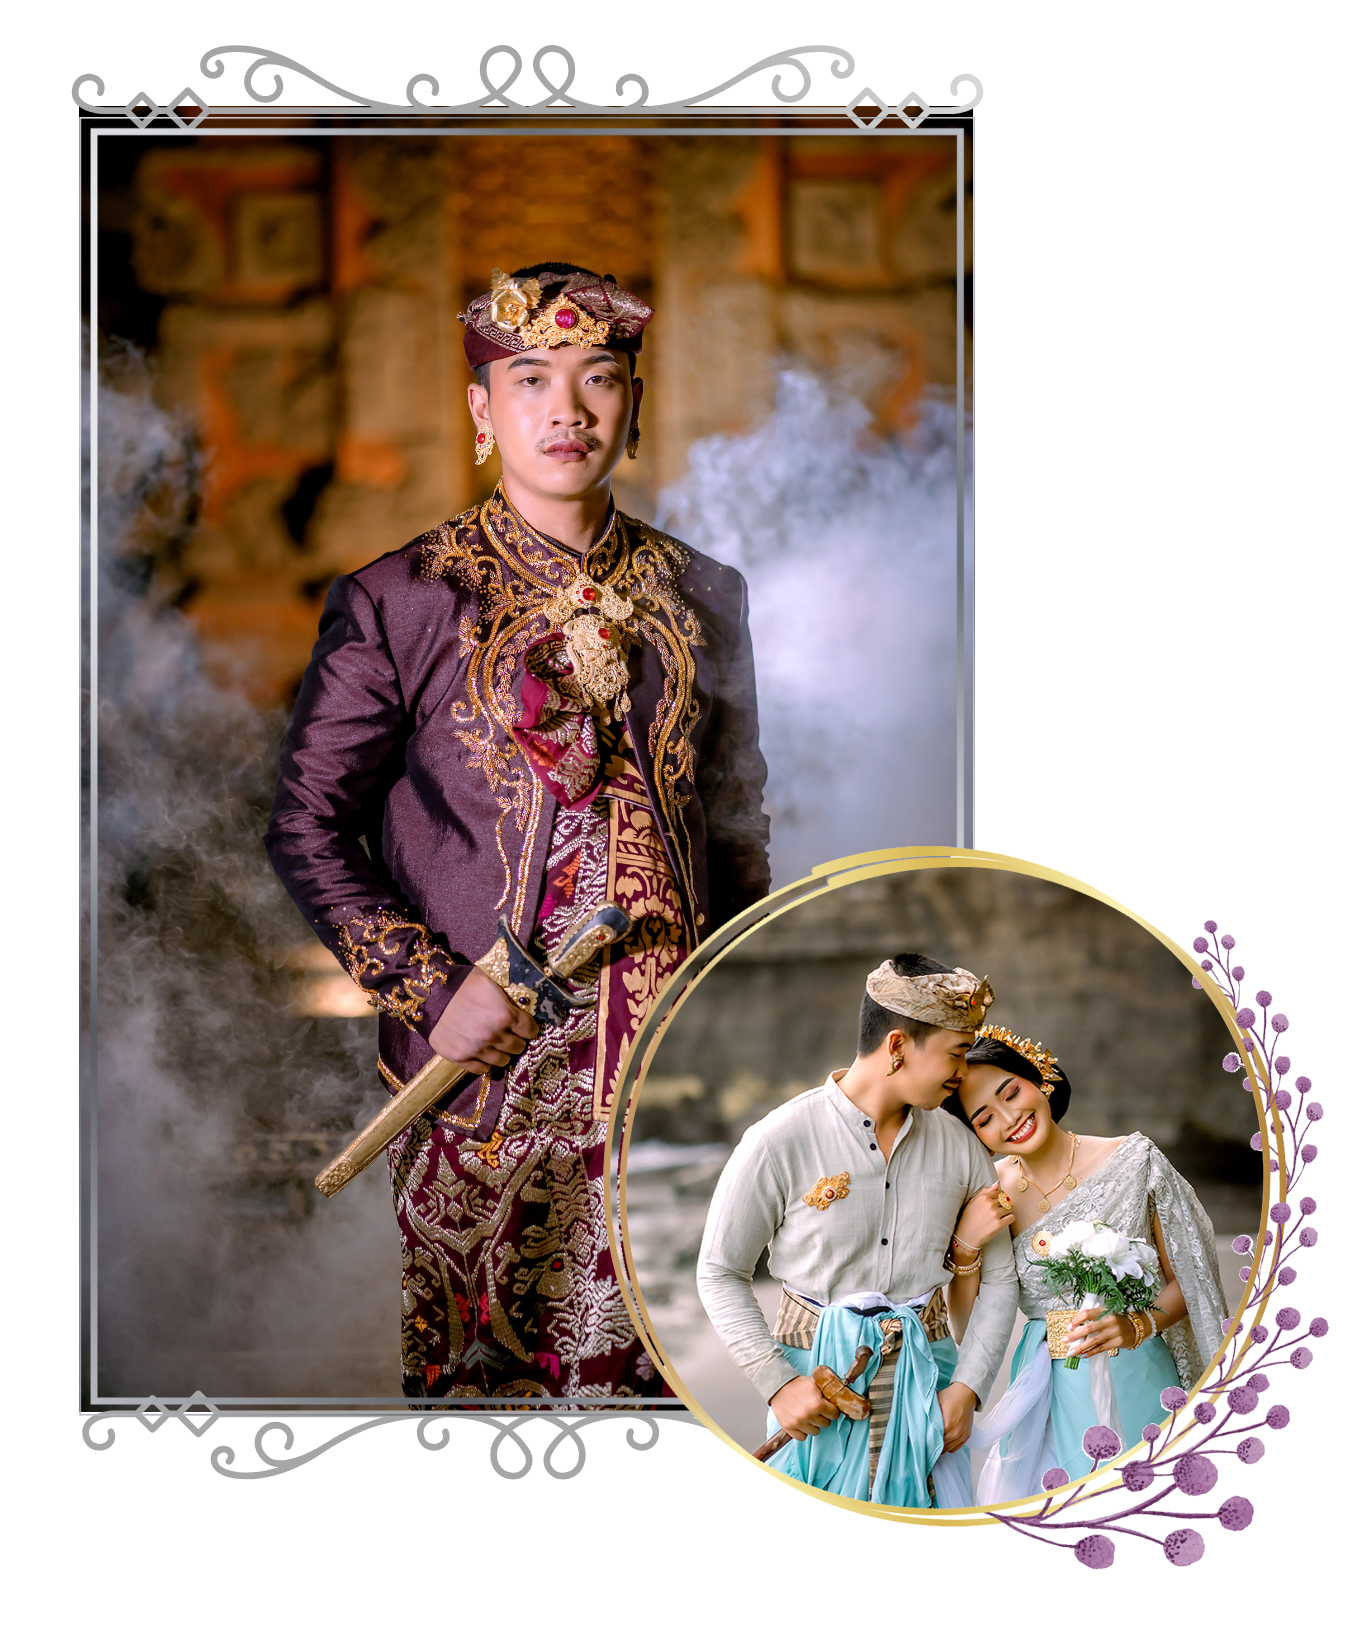
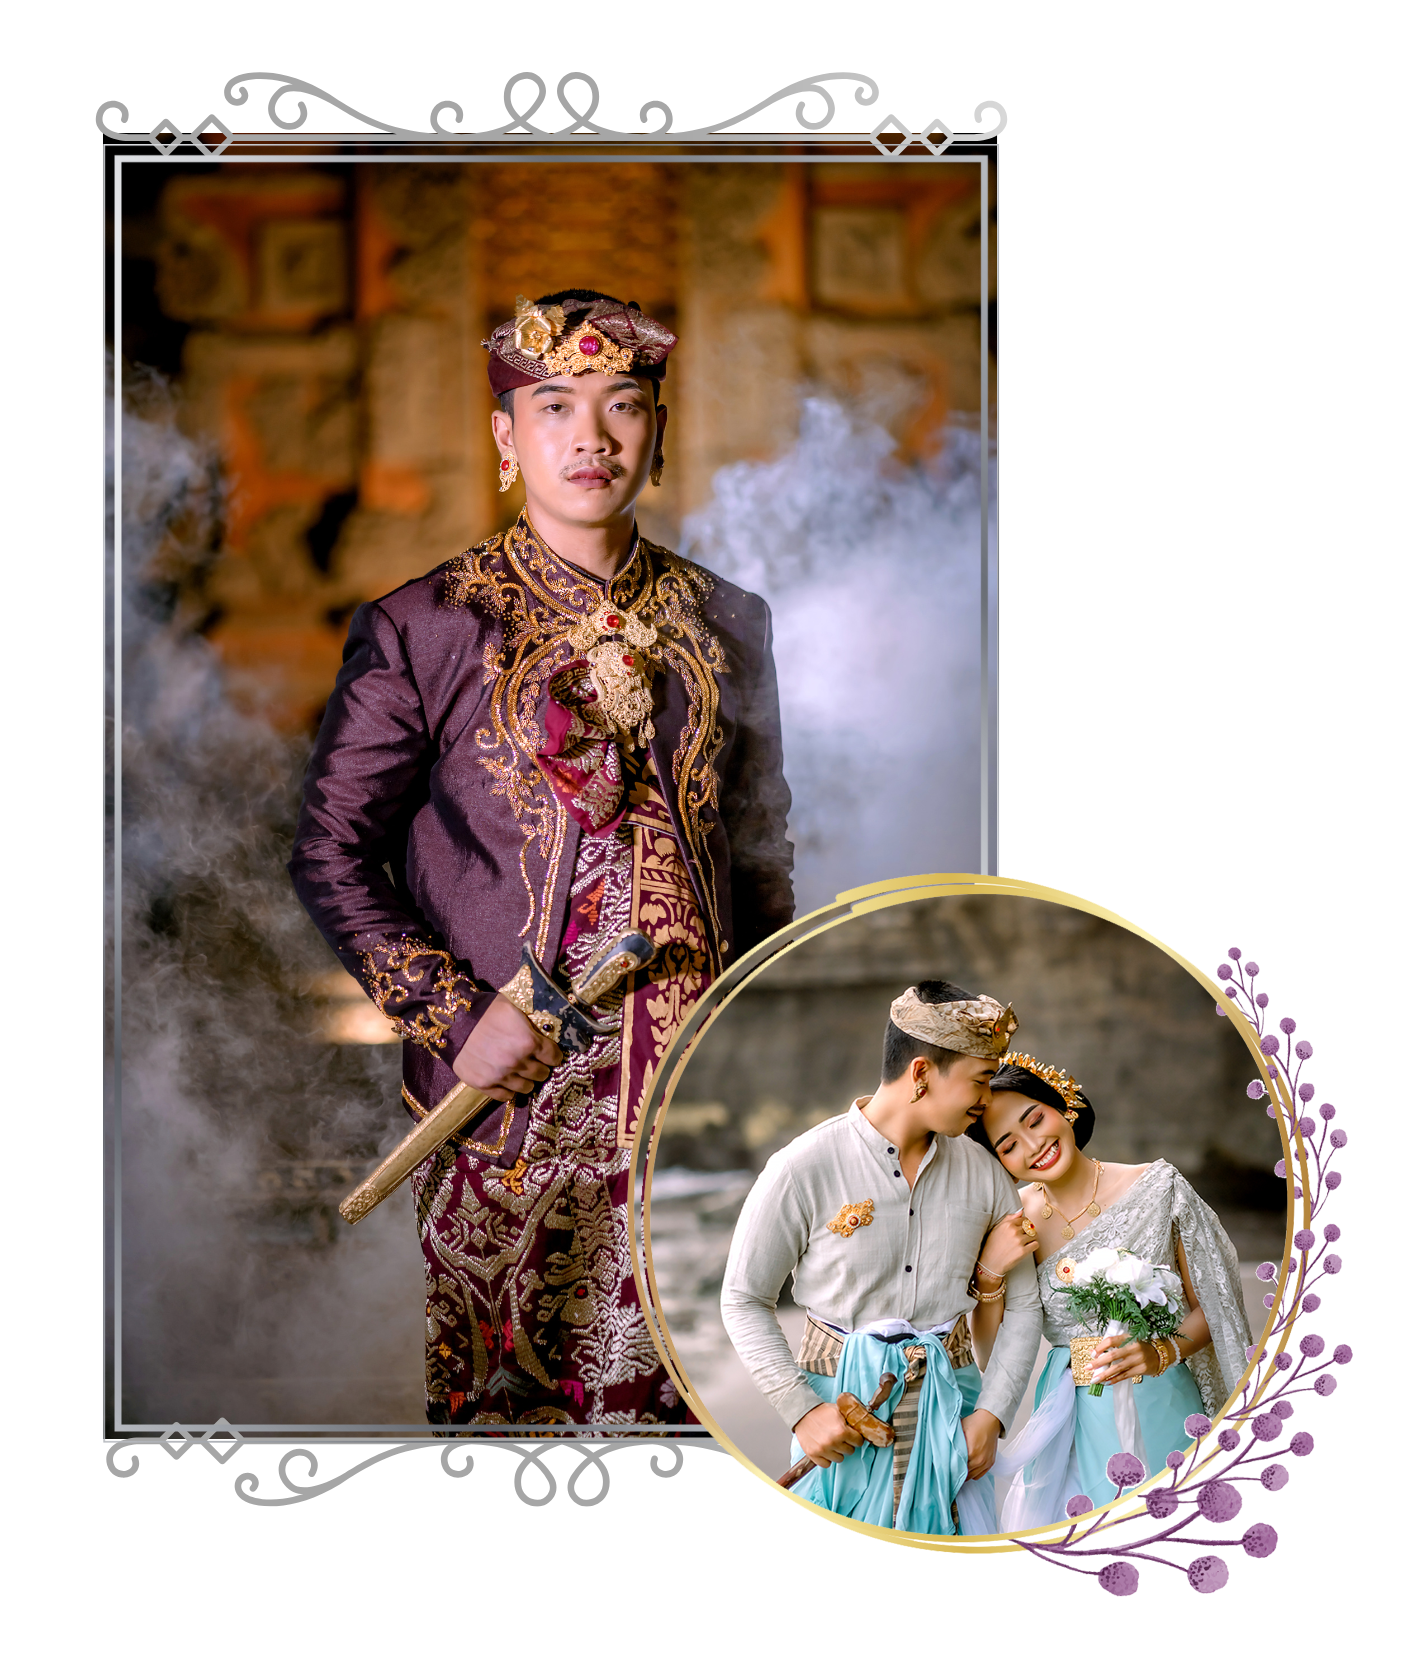
update
foto snd display link

diff --git a/index.html b/index.html
@@ -5,10 +5,14 @@
   <meta charset="UTF-8" />
   <meta http-equiv="X-UA-Compatible" content="IE=edge" />
   <meta name="viewport" content="width=device-width, initial-scale=1.0" />
-  <meta property="og:title" content="The Wedding OF : Ajip & Puspita">
-  <meta property="og:description" content="Minggu, 30 Juli 2023">
+  <meta property="og:title" content="Pawiwahan Ajip & Puspita - Undangan Digital Bali">
+  <meta property="og:description" content="Atas Asung Kertha Wara Nugraha Ida Sang Hyang Widhi Wasa/ Tuhan Yang Maha Esa, kami bermaksud mengundang Bapak/ Ibu/ Saudara/ i pada Upacara Manusa Yadnya Pawiwahan putra dan putri kami.">
   <meta property="og:image"
     content="https://raw.githubusercontent.com/cipEpic/Wedding/refs/heads/main/images/hero/hero2.JPG">
+    <meta property="og:image" content="https://path/to/your/image/hero2.JPG">
+    <meta property="og:image:width" content="1200">
+    <meta property="og:image:height" content="630">
+
   <meta property="og:url" content="https://wedding-alpha-eight.vercel.app/">
   <meta property="og:type" content="website">
 
@@ -95,8 +99,8 @@
     <div class="slider">
 
 
-      <img src="images/hero/hero1.JPG" alt="" class="slide">
       <img src="images/hero/hero2.JPG" alt="" class="slide">
+      <img src="images/hero/hero1.JPG" alt="" class="slide">
       <img src="images/hero/hero3.JPG" alt="" class="slide">
 
     </div>
@@ -173,7 +177,9 @@
         </p>
       </div>
       <div class="about-img" data-aos="zoom-in-up">
-        <img src="images/ajip.png" alt="about" />
+        <a href="https://www.instagram.com/gedeajipp_?igsh=MW1zNWpwZXhyaXcxZA==" target="_blank">
+          <img src="images/ajip.png" alt="about" />
+        </a>
         <!-- <img class="overlay-img" src="images/overlay/overlay.jpg" alt="overlay"> -->
       </div>
     </div>
@@ -190,7 +196,9 @@
           Wayan Perni</p>
       </div>
       <div class="about-img" data-aos="zoom-in-up">
-        <img src="images/tuta.png" alt="about" />
+        <a href="https://www.instagram.com/tutadewi?igsh=MXRkbmtraXFuNDR5MQ==" target="_blank">
+          <img src="images/tuta.png" alt="about" />
+        </a>
         <!-- <img class="overlay-img" src="images/overlay/overlay.jpg" alt="overlay"> -->
       </div>
     </div>
@@ -227,22 +235,22 @@
             <div class="icon-circle">
               <i class="far fa-calendar"></i>
             </div>
-            <p><strong>Rabu, 26 Juli 2023</strong></p>
+            <p><strong>Kamis, 28 November 2024</strong></p>
           </div>
           <div class="event-info">
             <div class="icon-circle">
               <i class="far fa-clock"></i>
             </div>
-            <p><strong>13.00 WITA s/d Selesai</strong></p>
+            <p><strong>10.00 WITA s/d Selesai</strong></p>
           </div>
           <div class="event-info">
             <div class="icon-circle">
               <i class="far fa-map"></i>
             </div>
-            <p><strong> Kp. Cisaru Kulon, RT/RW 002/008, Kelurahan Rancagoong, Kec Cilaku</strong></p>
+            <p><strong> Gadungan, Tabanan Regency, Bali</strong></p>
           </div>
         </div>
-        <a href="https://goo.gl/maps/L2jcuRbeP6z76h6m7" target="_blank" class="event-map">Lihat di Google Maps</a>
+        <a href="https://maps.app.goo.gl/JdzqBs5eYW1JEh3Q9" target="_blank" class="event-map">Lihat di Google Maps</a>
       </div>
     </div>
   </section>
